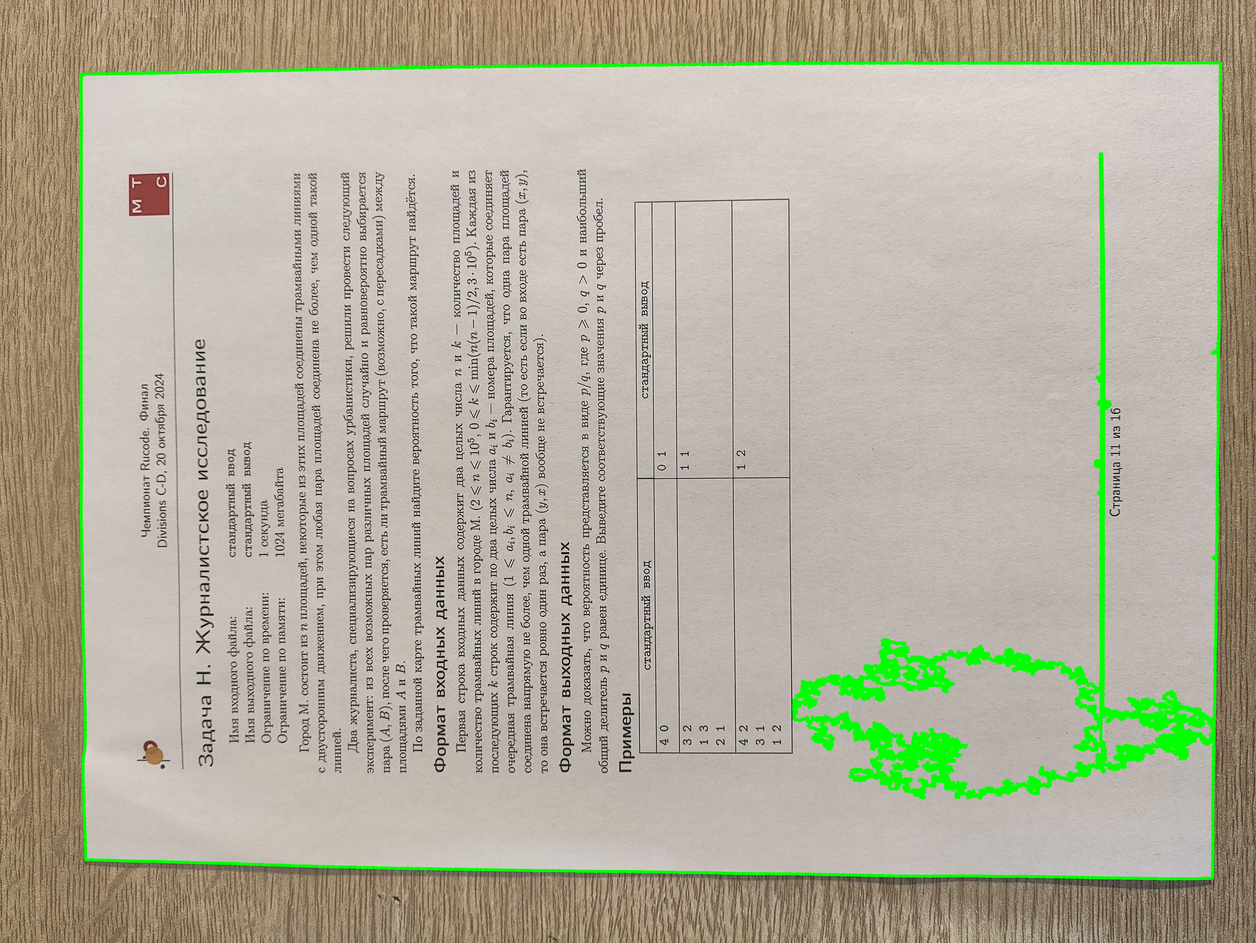
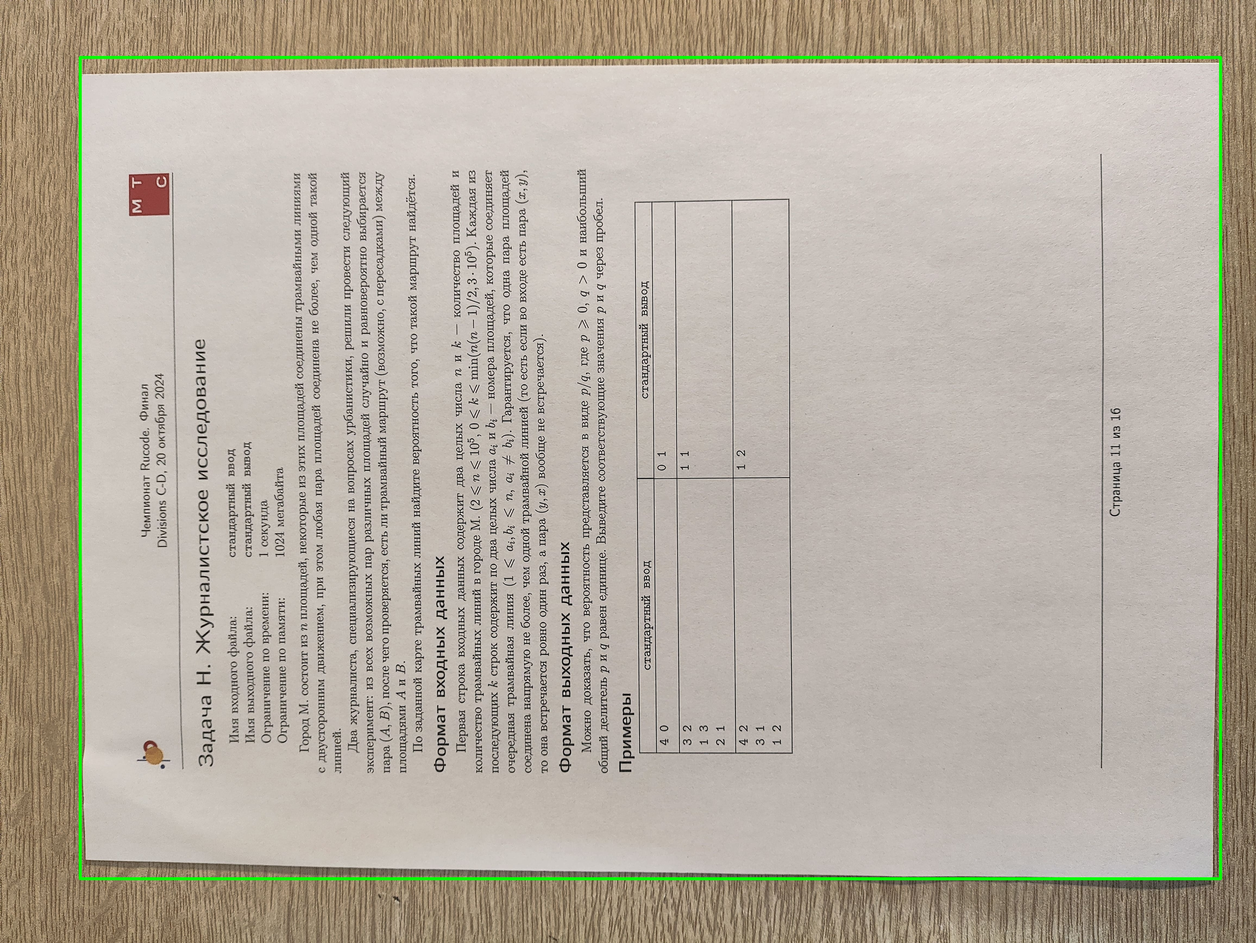
upd

Changed region(s): [[0.6228, 0.1555, 0.9965, 0.9332], [0.0623, 0.0311, 0.9654, 0.0933], [0.0623, 0.5599, 0.872, 0.9332]]

diff --git a/prj.lab/lab01/test.cpp b/prj.lab/lab01/test.cpp
@@ -1,3 +1,137 @@
 //
 // Created by Lenovo on 09.03.2026.
 //
+#include <opencv2/core/mat.hpp>
+#include <opencv2/opencv.hpp>
+#include <opencv2/imgcodecs.hpp>
+#include <iostream>
+#include <vector>
+
+
+/**
+ * Находит все контуры на изображении и рисует их
+ *
+ * @param imagePath Путь к входному изображению
+ * @param outputPath Путь для сохранения результата (опционально)
+ * @return pair<Mat, vector<vector<Point>>> Изображение с контурами и сами контуры
+ */
+void findAndDrawContours(const std::string& imagePath,
+                                                      const std::string& out, const std::string& out_binary) {
+    // Загрузка изображения
+    cv::Mat image = cv::imread(imagePath);
+    if (image.empty()) {
+        throw std::runtime_error("Не удалось загрузить изображение: " + imagePath);
+    }
+
+    // 1. Конвертация в оттенки серого
+    cv::Mat gray;
+    cv::cvtColor(image, gray, cv::COLOR_BGR2GRAY);
+
+    cv::Mat denoised;
+    cv::GaussianBlur(gray, denoised, cv::Size(5, 5), 0);
+
+    // 3. Бинаризация с методом Оцу
+    cv::Mat binary;
+    double thresholdValue = cv::threshold(denoised, binary, 170, 255,
+                                       cv::THRESH_BINARY);
+
+    // Сохранение бинарного изображения
+    cv::imwrite(out_binary, binary);
+    std::cout << "✓ Порог бинаризации: " << thresholdValue << std::endl;
+
+    // 4. Обнаружение краев (Canny)
+    //cv::Mat edges;
+    //cv::Canny(binary, edges, 50, 150);
+
+    // 5. Поиск контуров
+    std::vector<std::vector<cv::Point>> contours;
+    std::vector< cv::Vec4i> hierarchy;
+    cv::findContours(binary, contours, hierarchy, cv::RETR_EXTERNAL, cv::CHAIN_APPROX_SIMPLE);
+
+
+    // 6. Создание результата (копия бинарного изображения)
+    cv::Mat result = image.clone();
+
+    // 7. Проверка и закрашивание мелких контуров
+    int minArea = 1000000;
+
+    for (int i = 0; i < contours.size(); i++) {
+        double area = cv::contourArea(contours[i]);
+        //std::cout << area << std::endl;
+
+        if (area >= minArea)
+        {
+            cv::Rect bbox = boundingRect(contours[i]);
+            cv::rectangle(result, bbox, cv::Scalar(0, 255, 0), 10);
+            //cv::drawContours(result, contours, static_cast<int>(i), cv::Scalar(0, 255, 0), 10);
+        }
+    }
+
+    // 8. Сохранение результата
+    cv::imwrite(out, result);
+
+    /*
+    //egor
+    std::vector<std::vector<cv::Point>> contours;
+    std::vector<cv::Vec4i> hierarchy;
+    cv::findContours(binary.clone(), contours, hierarchy, cv::RETR_EXTERNAL, cv::CHAIN_APPROX_SIMPLE);
+
+    cv::RotatedRect detected_rect;
+    cv::Point2f detected_center(-1, -1);
+    double detected_solidity = 0.0;
+    double contour_area = 0.0;
+    cv::Mat final_viz;
+
+    if (!contours.empty())
+    {
+        // Находим самый большой контур (на случай, если осталось >1)
+        size_t best_idx = 0;
+        double max_area = 0;
+        for (size_t i = 0; i < contours.size(); ++i) {
+            double area = cv::contourArea(contours[i]);
+            if (area > max_area) {
+                max_area = area;
+                best_idx = i;
+            }
+        }
+
+        contour_area = max_area;
+        detected_rect = cv::minAreaRect(contours[best_idx]);
+        detected_center = detected_rect.center;
+
+        // Площадь RotatedRect
+        double rect_area = detected_rect.size.width * detected_rect.size.height;
+        detected_solidity = (rect_area > 0) ? (contour_area / rect_area) : 0.0;
+
+        // Визуализация
+        cv::cvtColor(binary, final_viz, cv::COLOR_GRAY2BGR);
+        cv::Point2f vertices[4];
+        detected_rect.points(vertices);
+        for (int j = 0; j < 4; ++j) {
+            cv::line(final_viz, vertices[j], vertices[(j + 1) % 4], cv::Scalar(0, 255, 0), 2);
+        }
+        cv::circle(final_viz, detected_center, 5, cv::Scalar(255, 0, 0), -1); // синий центр
+
+        cv::imwrite("out.jpg", final_viz);
+    }
+    */
+}
+
+
+int main() {
+    // Пути к файлам
+    std::string input_001 = "../src/img_easy_005.jpg";
+    std::string input_002 = "../src/not_clear_bg_000.jpg";
+    std::string input_003 = "../src/img_easy_004.jpg";
+    std::string input_006 = "../src/img_easy_006.jpg";
+
+    std::cout << "========================================" << std::endl;
+    std::cout << "Обработка изображения" << std::endl;
+    std::cout << "========================================" << std::endl;
+
+    // Вызов функции
+    findAndDrawContours(input_001, "../images/img_easy_005_out.jpg", "../images/img_easy_005_binary.jpg");
+    findAndDrawContours(input_002, "../images/not_clear_bg_000_out.jpg", "../images/not_clear_bg_000_binary.jpg");
+    findAndDrawContours(input_003, "../images/img_easy_004_out.jpg", "../images/img_easy_004_binary.jpg");
+    findAndDrawContours(input_006, "../images/img_easy_006_out.jpg", "../images/img_easy_006_binary.jpg");
+}
